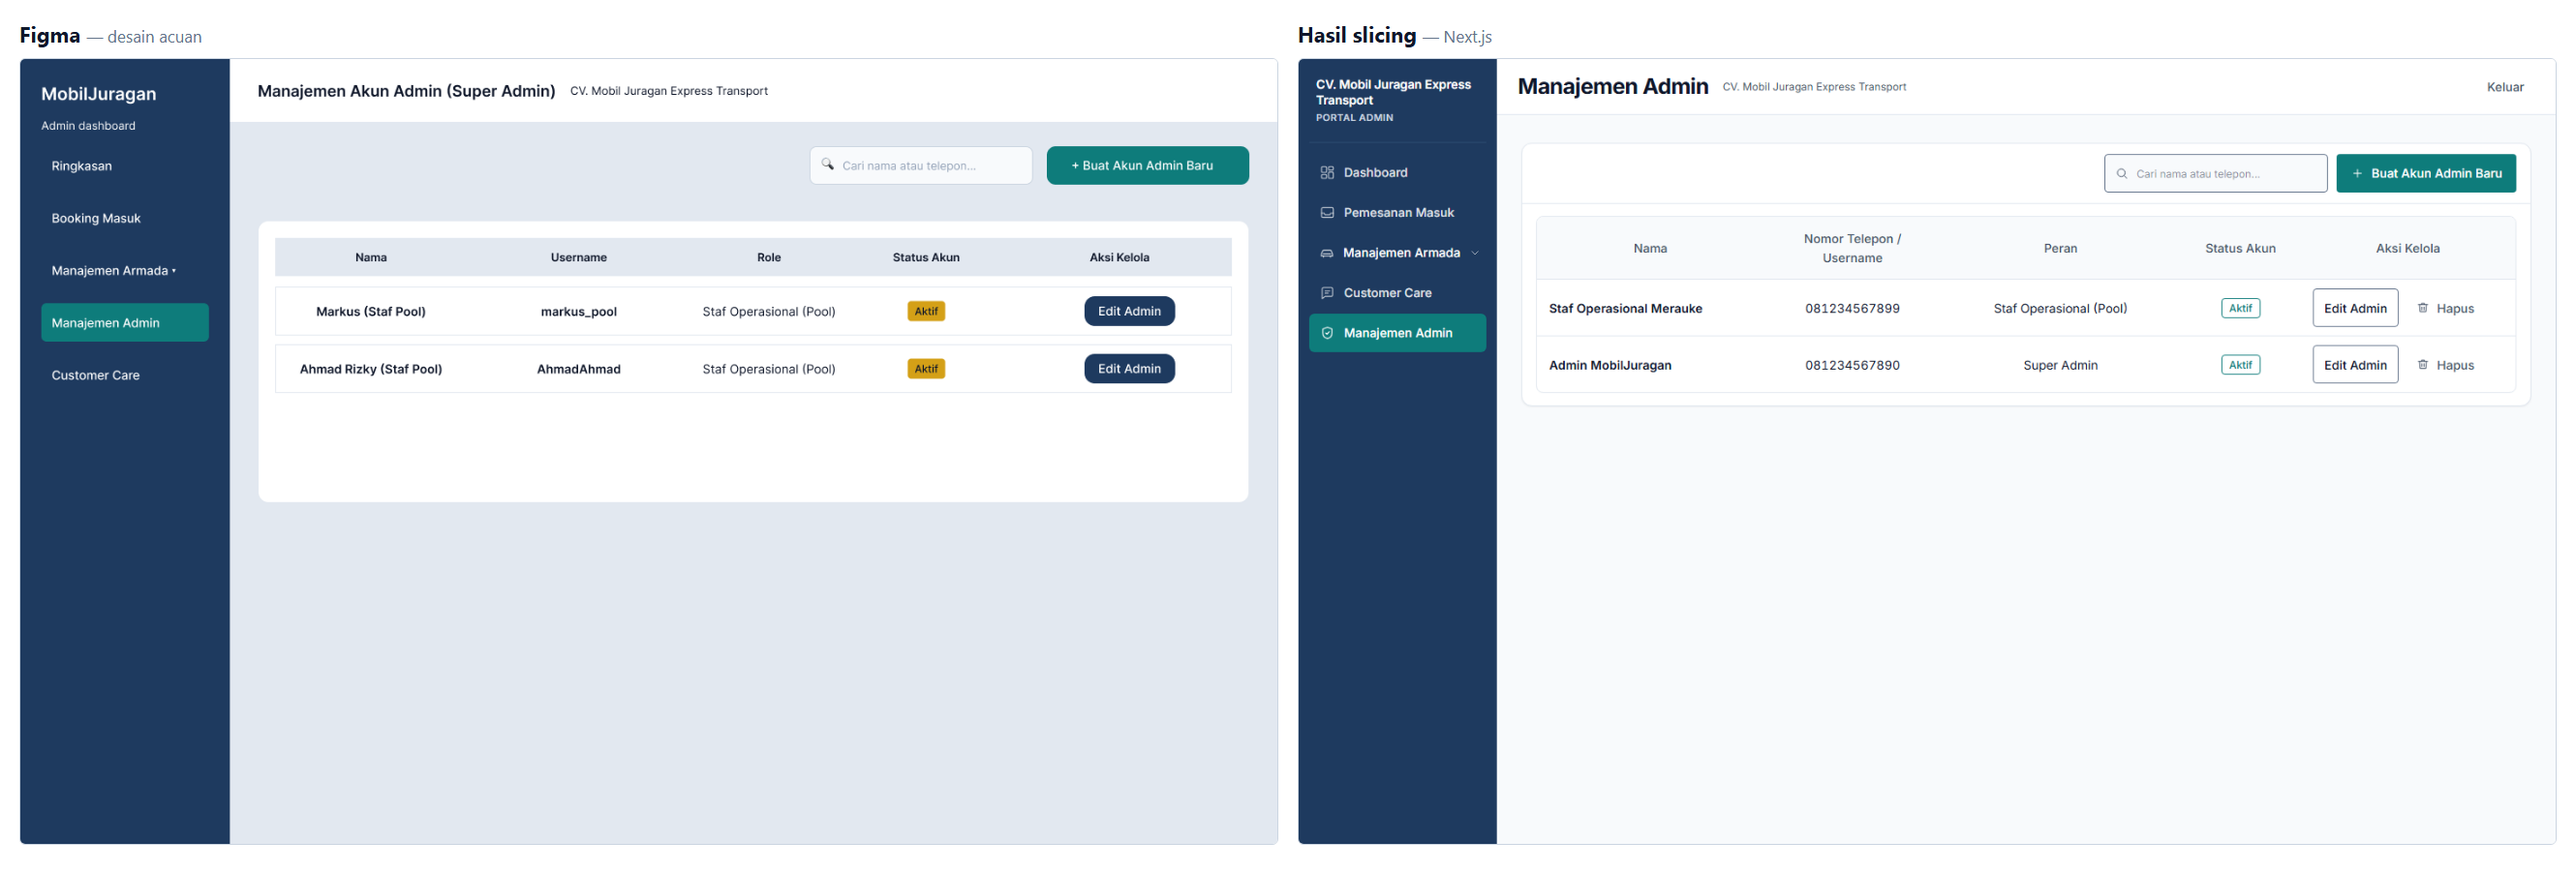
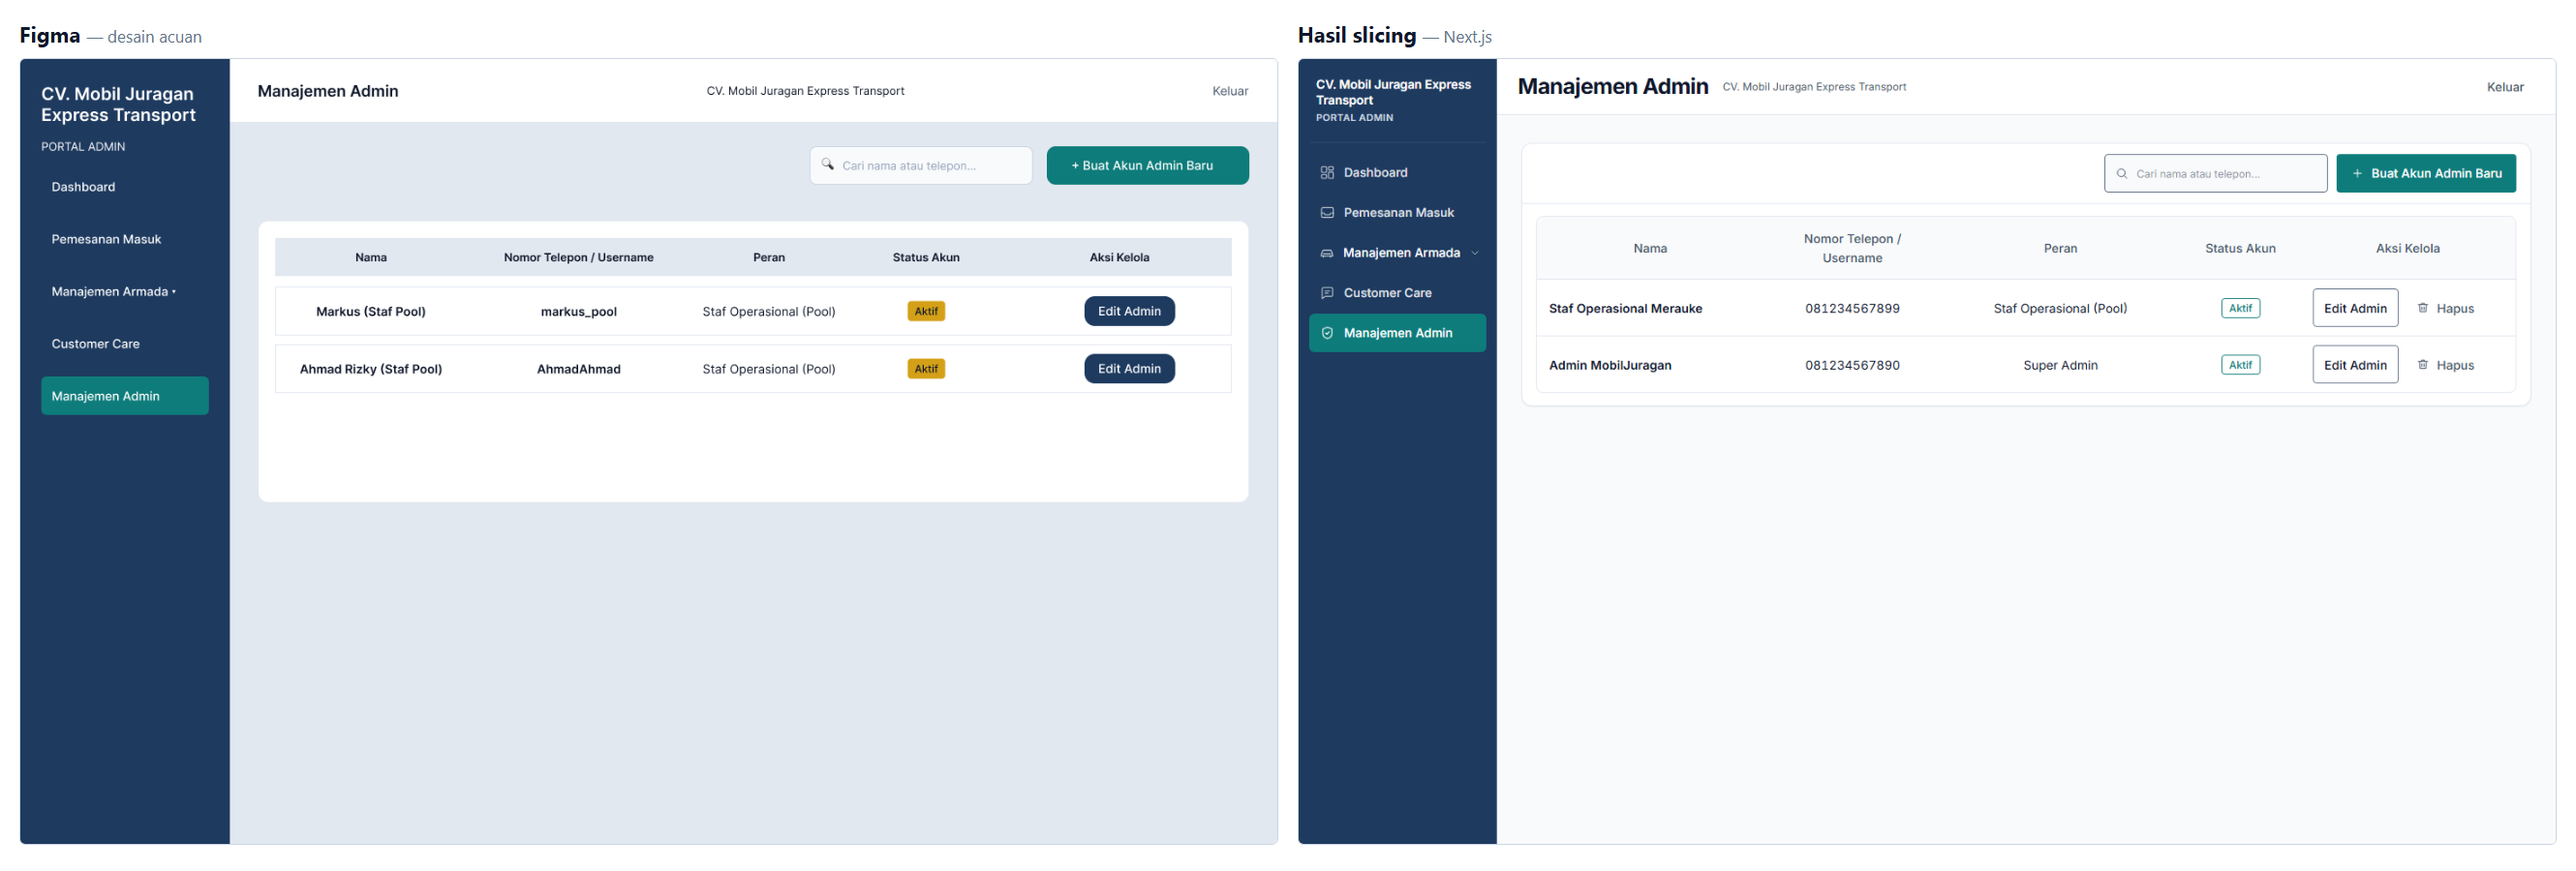
selaraskan sisa teks figma dan perbarui gambar perbandingan

diff --git a/README.md b/README.md
@@ -171,7 +171,8 @@ Tangkapan diambil pada viewport **1440x900**, sama dengan ukuran frame Figma, su
 | Isi panel armada | Jumlah unit + daftar plat | Sama, diambil dari database | Sesuai, tidak ditulis tetap |
 | Ukuran kartu | 1008x648 | 1008x648 | Sesuai. Desain Figma ikut diperkecil dari 1120x720, karena kartu 720px membuat halaman menggulir di laptop 1366x768. Tinggi kontrol tetap 44px agar target sentuh tidak mengecil. |
 | Checkbox "Ingat sesi" | Tidak tercentang | Tidak tercentang | Sesuai. Desain Figma ikut diubah dari tercentang menjadi tidak tercentang, mengikuti default aman di aplikasi. |
-| Baris "Versi Sistem" | Ada di dasar panel navy | Belum ada | Selisih tampilan, tidak memengaruhi fungsi |
+| Isi kolom form | Terisi data contoh | Kosong dengan placeholder | Perbedaan keadaan tampilan, bukan desain |
+| Teks panel armada | "9 unit armada riil Merauke terdaftar" | Sama | Sesuai, termasuk huruf besar-kecil |
 
 ### 7.2 Halaman Manajemen Admin
 
@@ -181,10 +182,11 @@ Tangkapan diambil pada viewport **1440x900**, sama dengan ukuran frame Figma, su
 | :--- | :--- | :--- | :--- |
 | Warna, tabel, chip status | Navy, tabel garis, chip | Sama | Sesuai |
 | Teks peran | "Staf Operasional (Pool)" | Sama | Sesuai |
-| Username | Username teks (`markus_pool`) | Nomor telepon (`081234567899`) | Backend memakai nomor telepon sebagai identitas masuk, jadi kolomnya menampilkan data nyata |
-| Kotak pencarian | Ada | Ada | Sesuai. Desain Figma ikut ditambahi kotak pencarian. |
+| Menu sidebar | Dashboard, Pemesanan Masuk, Manajemen Armada, Customer Care, Manajemen Admin | Sama | Sesuai, termasuk urutan dan sorotan menu aktif |
+| Judul topbar | "Manajemen Admin" + tombol "Keluar" | Sama | Sesuai |
+| Kotak pencarian | Ada | Ada | Sesuai |
+| Kepala kolom | Nama, Nomor Telepon / Username, Peran, Status Akun, Aksi Kelola | Sama | Sesuai |
 | Tombol aksi | Hanya "Edit Admin" | "Edit Admin" + "Hapus" | Hapus hanya ada di aplikasi, karena endpoint `DELETE /admin/users/:id` memang tersedia |
-| Judul halaman | Tanpa H1 | Tanpa H1 | Sesuai. Judul H1 di Figma ikut dihapus agar tidak mengulang nama halaman tiga kali (topbar, menu sidebar, dan judul konten) |
-| Kepala kolom | "Role", "Username" | "Peran", "Nomor Telepon / Username" | Label memakai bahasa Indonesia dan menyebut isi kolom apa adanya |
+| Data contoh | Markus (Staf Pool) / markus_pool | Staf Operasional Merauke / 081234567899 | Isi tabel mengikuti data nyata di MariaDB, bukan contoh di desain |
 
 Catatan: desain Figma ikut diperbarui pada 7 Oktober 2026 agar selaras dengan hasil slicing. Perbedaan yang tersisa hanyalah keputusan sadar, bukan bagian yang belum selesai. Tangkapan layar di atas dihasilkan ulang oleh skrip `.verify/buat-perbandingan-figma.mjs`, sehingga bisa diperbarui kapan saja setelah tampilan berubah.
